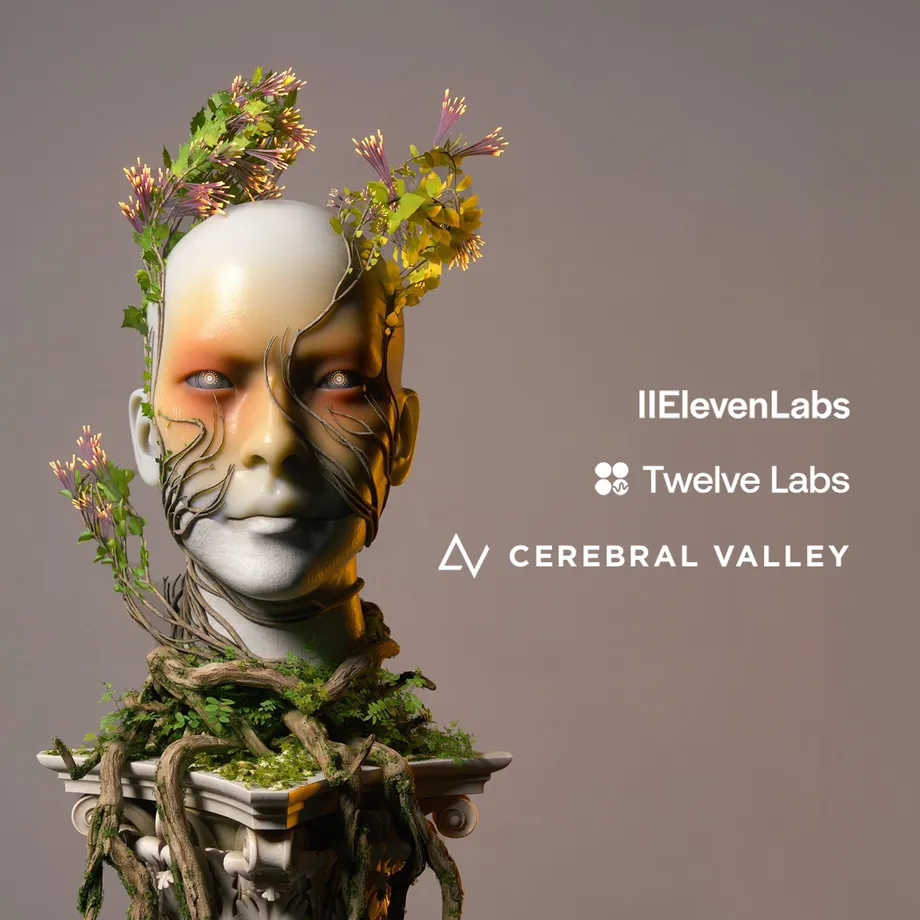
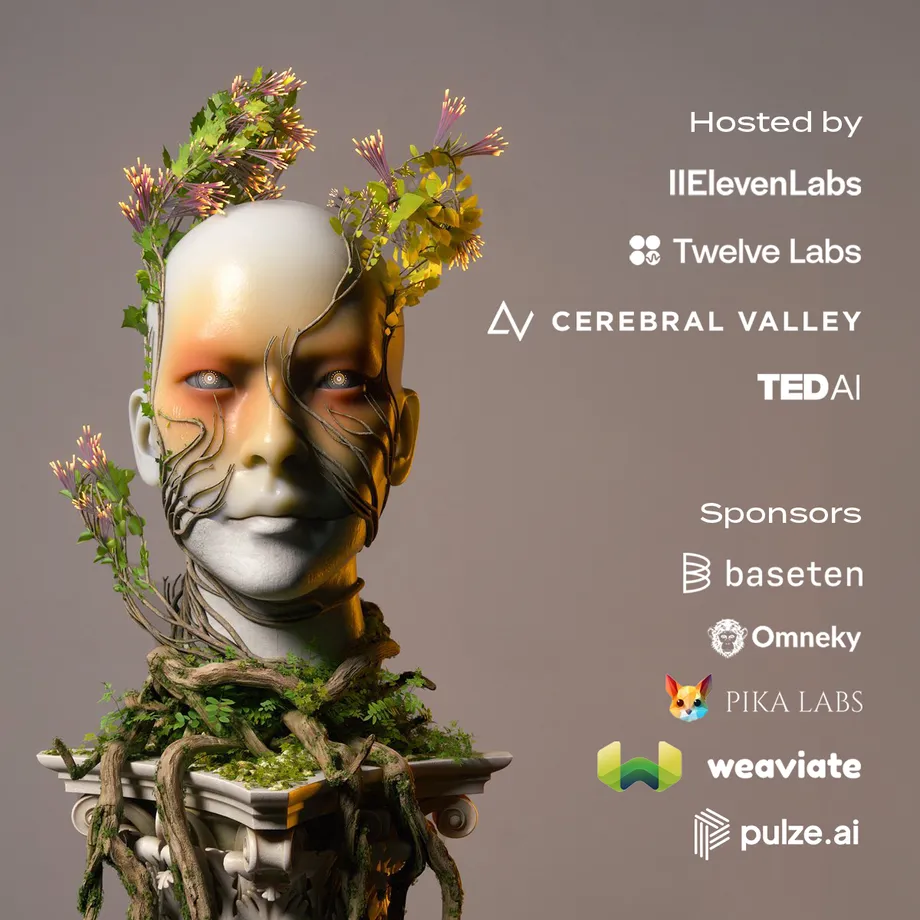
update featured events list

diff --git a/components/FeaturedEvents/FeaturedEventsCard.tsx b/components/FeaturedEvents/FeaturedEventsCard.tsx
@@ -23,7 +23,7 @@ const FeaturedEventsCard = ({ event }: { event: EventType }) => {
           <h2 className={"text-left text-sm font-bold dark:text-white"}>
             {event.event}
           </h2>
-          {event.event.length < 28 && <div className="m-[1.3rem]" />}
+          {event.event.length <= 29 && <div className="m-[1.3rem]" />}
           <div
             className="py-1 text-sm font-normal"
             style={{

diff --git a/components/FeaturedEvents/FeaturedEvents.tsx b/components/FeaturedEvents/FeaturedEvents.tsx
@@ -29,7 +29,7 @@ export default function FeaturedEvents() {
     },
     {
       id: "3",
-      event: "Multimodal AI Hackathon (23 Labs)",
+      event: "TEDAI Multimodal Hackathon (23 Labs)",
       startDate: "2023-10-14T00:00:00-08:00",
       endDate: "2023-10-15T00:00:00-08:00",
       location: "San Francisco, CA",
